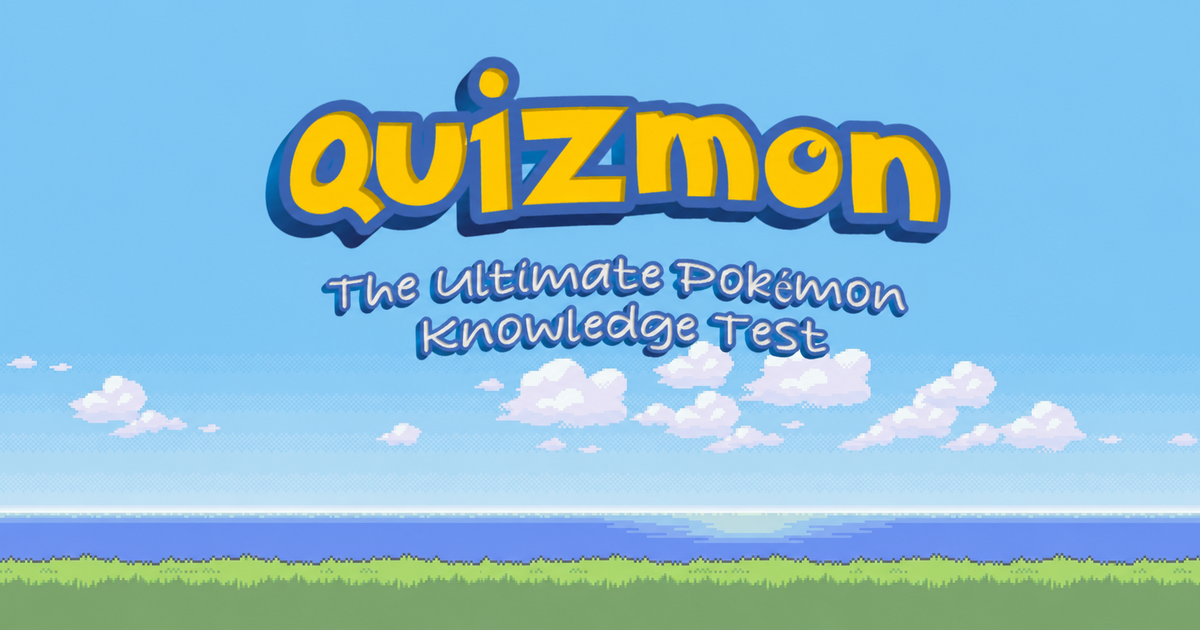
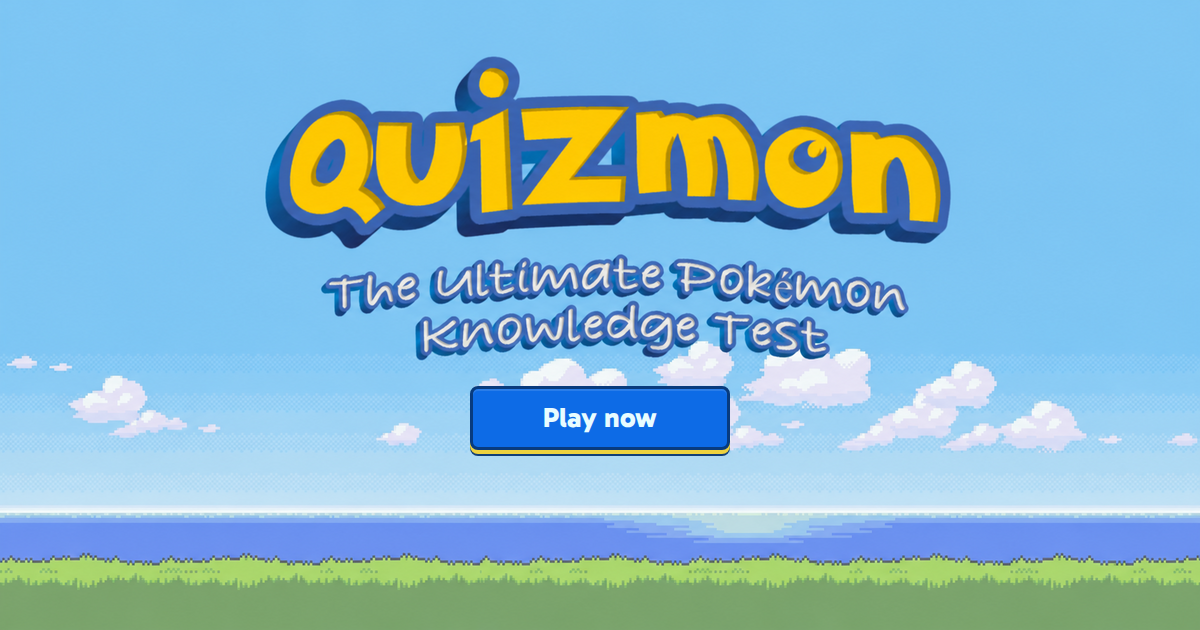
feat: refresh social preview

Changed region(s): [[0.37, 0.6032, 0.6167, 0.7238]]

diff --git a/src/app/site.ts b/src/app/site.ts
@@ -13,6 +13,6 @@ export const site = {
     type: 'image/png',
     width: 1200,
     height: 630,
-    alt: 'Quizmon: The Ultimate Pokémon Knowledge Test',
+    alt: 'Quizmon: The Ultimate Pokémon Knowledge Test. Play now.',
   },
 } as const;
